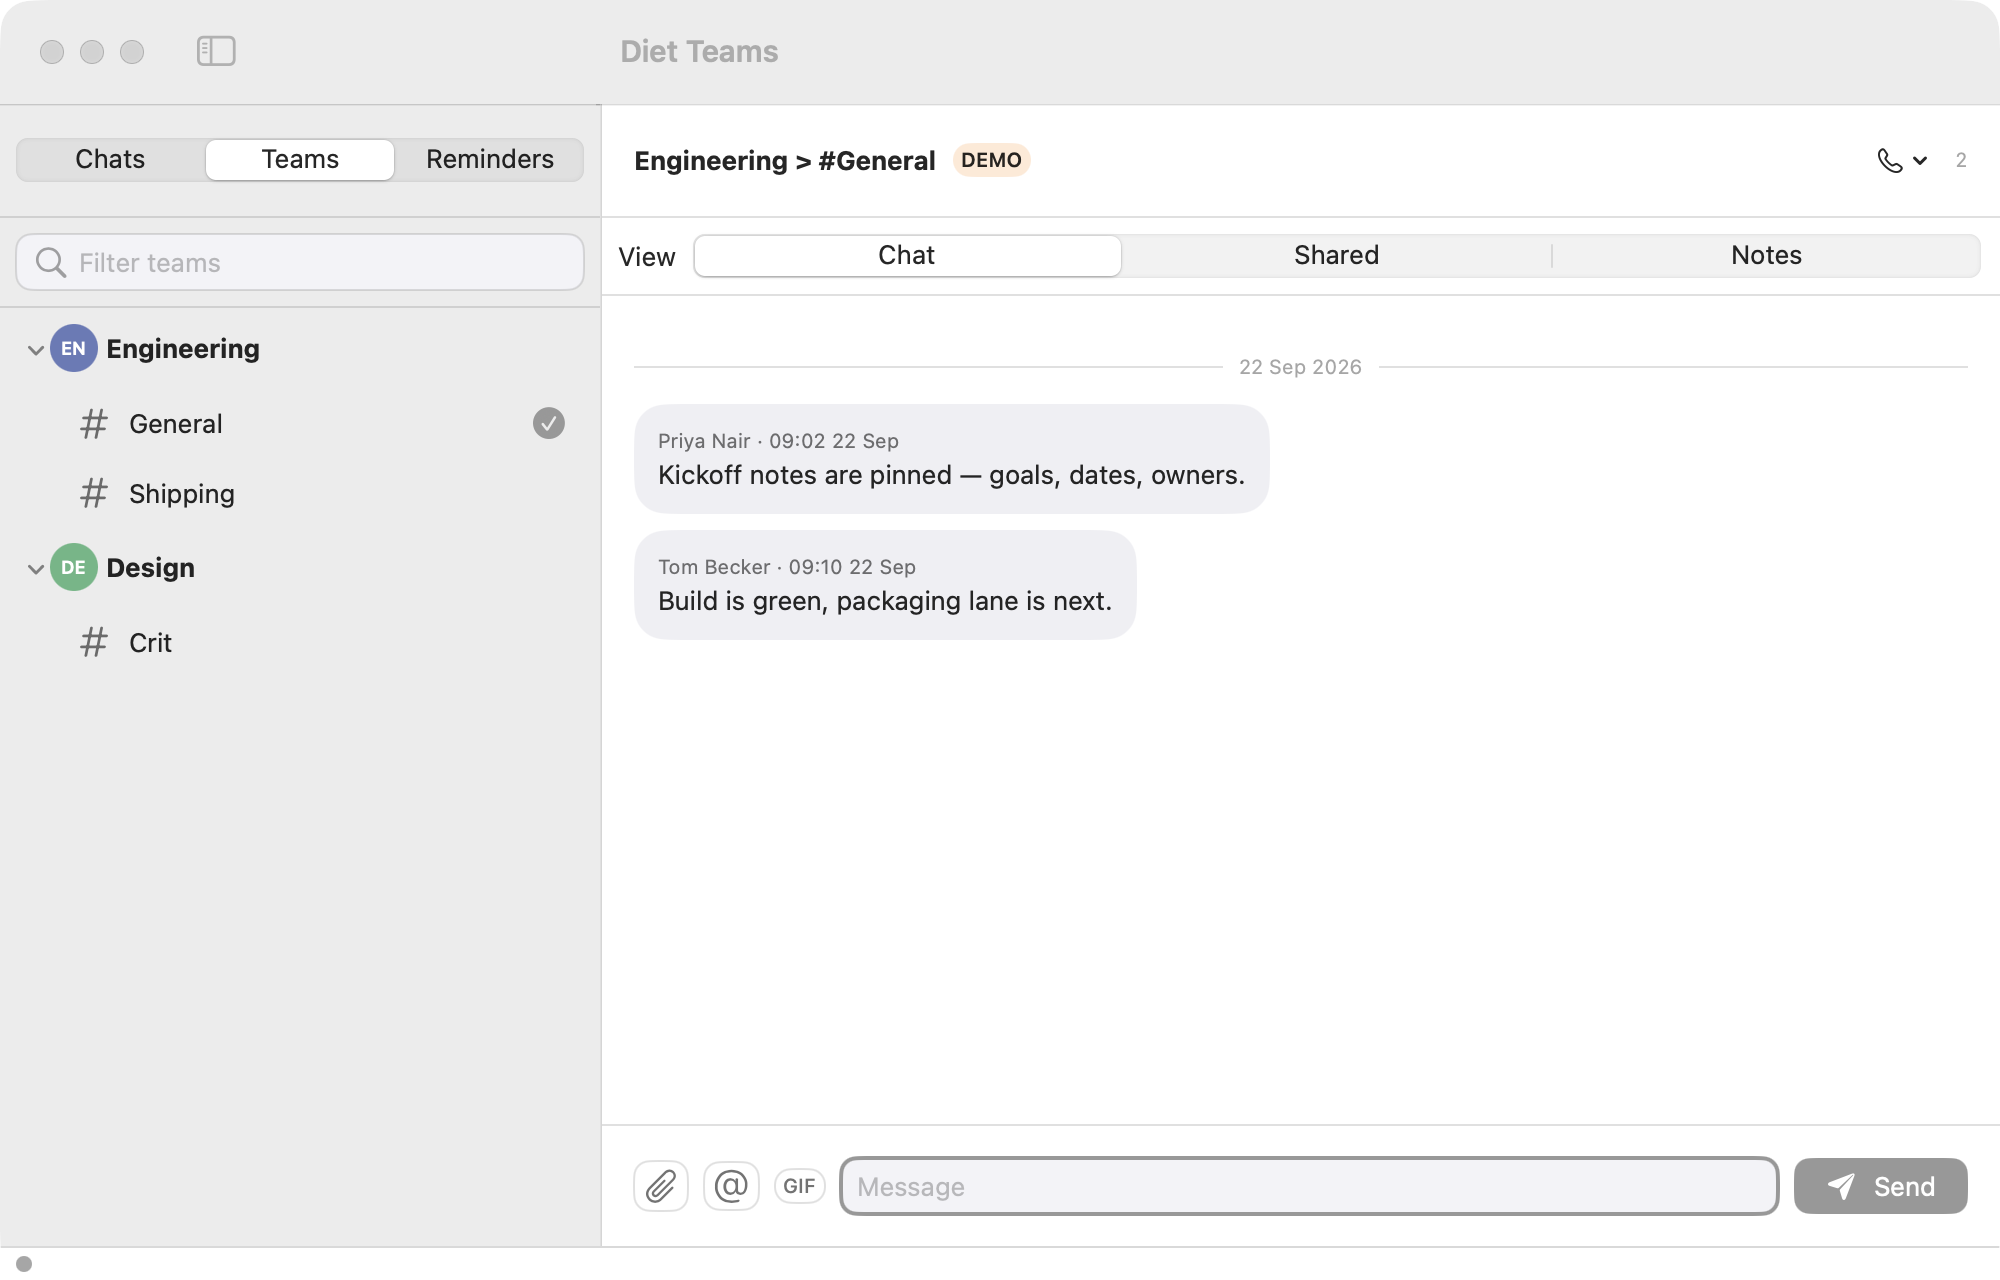
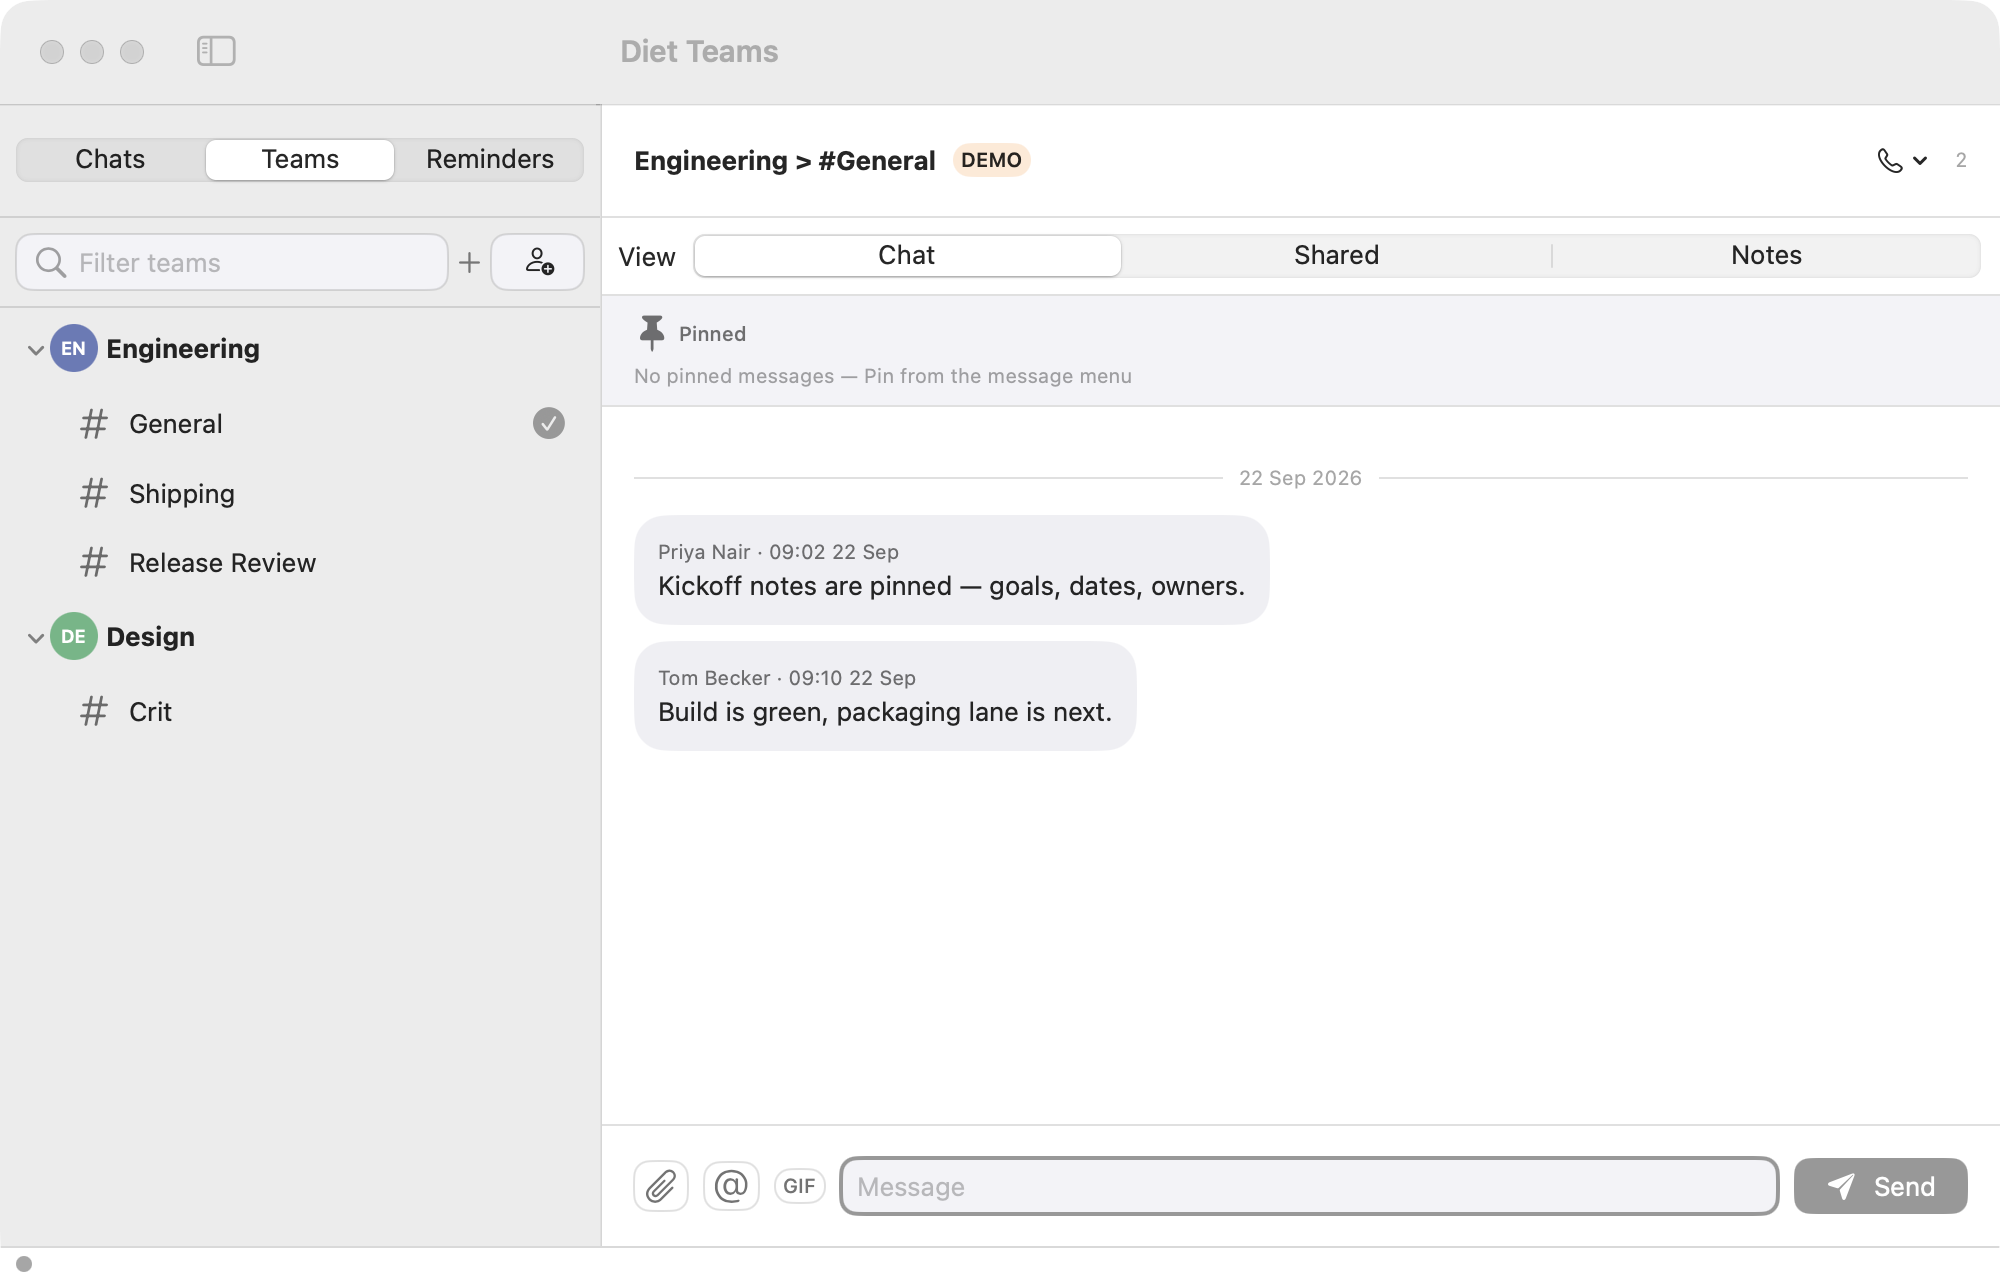
om-shots-refresh: regenerate README hero shots from current demo UI + Wave G/H/I feature-list audit
- main window: Showcase + Pinned (2), Mentions/Notifications rows,
  Seen receipt, current composer (attach/@/GIF/Send)
- teams channel: Teams tab, Engineering > #General with open checkmark
- auth: recaptured canned ABCD-1234 screen (pixel-identical, UI unchanged)
- README features: user pins, mark-unread, hide, leave/block, pinned
  messages, shared-files folders/versions/move-copy-rename-delete/
  resumable uploads/drag-drop+QuickLook/sort-filter/save-as, teams
  join/create/detail+tabs/roster, --demo-showcase, DietShowcase, ~100-fn ABI

diff --git a/README.md b/README.md
@@ -12,17 +12,22 @@ in `--demo` with canned data; sign in via device code or browser to go live.
 ## Features
 
 Chat & conversation
-: Sidebar (Chats / Teams / Reminders, pinned Mentions/Notifications) +
-  conversation with Chat / Shared / Notes tabs, live Trouter feed, paged
-  history, ⌘K jump palette, filters.
+: Sidebar (Chats / Teams / Reminders, pinned Mentions/Notifications,
+  user chat pins, mark-unread, hide, leave/block) + conversation with
+  Chat / Shared / Notes tabs, live Trouter feed, paged history, ⌘K jump
+  palette, filters.
 : Send, edit, delete, quote replies, emoji reactions, forward/copy/save,
-  @-mention picker, rich rendering (mentions, code, inline images, bot
-  posts, link previews), read receipts, typing indicators.
-: Shared files (list/upload/download) + composer attachments; GIF picker
+  pinned messages, @-mention picker, rich rendering (mentions, code,
+  inline images, bot posts, link previews), read receipts, typing
+  indicators.
+: Shared files (list/upload/download, folders + drill-in, share links,
+  versions, move/copy/rename/delete, resumable big uploads, drag-drop +
+  QuickLook, sort/filter, save-as) + composer attachments; GIF picker
   (bring-your-own Tenor key).
 
 Teams, meetings, reminders, notes
-: Teams/channels browser; upcoming meetings + join-string parsing + lobby;
+: Teams/channels browser (join team, create channel, channel detail +
+  tabs, team roster); upcoming meetings + join-string parsing + lobby;
   To Do lists/tasks; OneNote notebooks/sections/pages read + paragraph append.
 
 Calls
@@ -65,7 +70,7 @@ identity; else ad-hoc (mic/camera grants won't stick across rebuilds).
 ## Usage
 
 - Try offline first: `--demo` (also `--demo-rich`, `--demo-reactions`,
-  `--demo-botposts`, `--chat <id>`).
+  `--demo-botposts`, `--demo-showcase`, `--chat <id>`).
 - Sign in from the app: device code (copy code / open browser) or
   browser sign-in; the session persists across launches. Settings shows
   the account row plus token/probe diagnostics.
@@ -76,8 +81,9 @@ identity; else ad-hoc (mic/camera grants won't stick across rebuilds).
 
 - `swift/` — SPM package: `OstMac` (the app), `OstMacCore` (state +
   views), `OstMacChatList` (sidebar), `DietDesign` (design system),
-  `OstMacMCP` + `ostmac-mcp` executable, `COstMac` (C header).
-- `rust/ostmac-core/` — FFI `staticlib`: ~80-function C ABI, JSON over
+  `OstMacMCP` + `ostmac-mcp` executable, `DietShowcase` (design-system
+  demo), `COstMac` (C header).
+- `rust/ostmac-core/` — FFI `staticlib`: ~100-function C ABI, JSON over
   the boundary, every string freed with `ostmac_free`.
 - `rust/ost/` — vendored upstream `ost` (built as a lib) plus our
   documented patch stack (`OSTMAC-PATCHES.md`, tagged `[minor]`/`[major]`).
